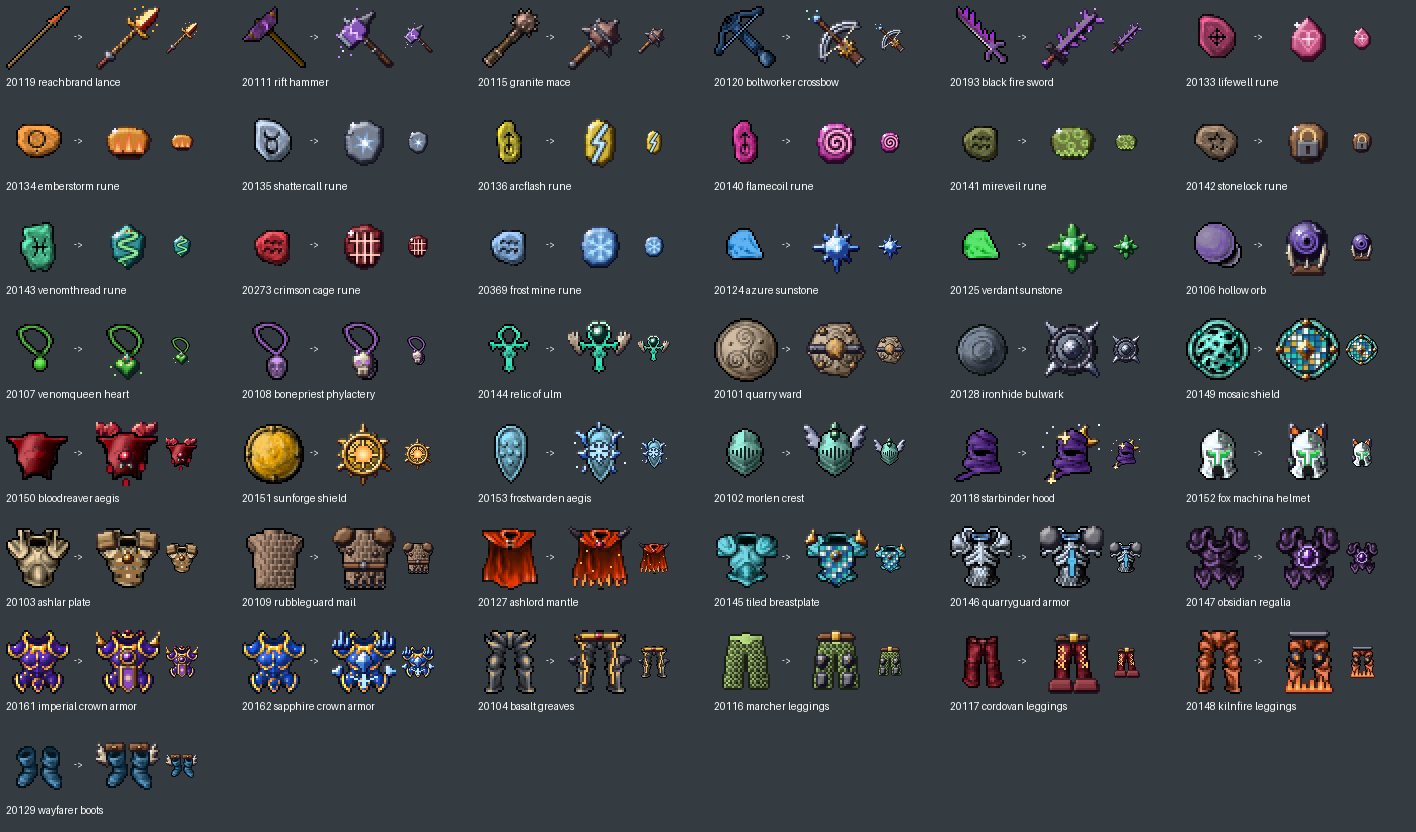
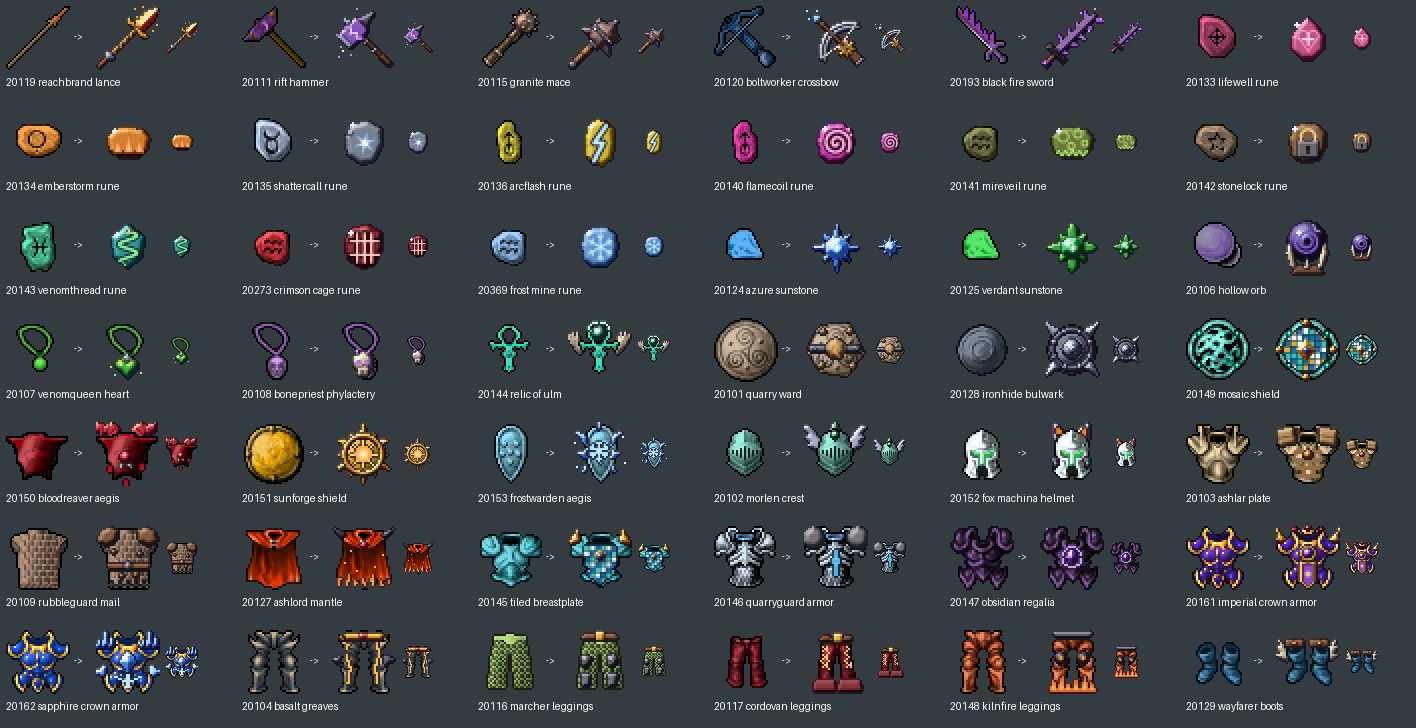
Starbinder hood (20118): vuelve al dibujo anterior
Pedido de Gonzalo: dejarlo como estaba. Restaura el sprite 11711 (el mismo que
genera recolor_zagan_items.py) y lo saca de redesign_items.py. Quedan 42
rediseñados.

diff --git a/scripts/client-rme/redesign_items.py b/scripts/client-rme/redesign_items.py
@@ -2,8 +2,8 @@
 """Rediseño de los ítems que eran un recolor de un ítem vanilla (24 nov 2026).
 
 Gonzalo: "hay muchos items que solo les cambiaste el color, y quedaron cambios mínimos como la nueva dragon
-lance". Este script reemplaza el sprite de 43 de esos 44 ítems (el aurora shield 20165 volvió a su dibujo por pedido de
-Gonzalo) por uno con forma propia. Dos maneras:
+lance". Este script reemplaza el sprite de 42 de esos 44 ítems (el aurora shield 20165 y el starbinder hood 20118
+volvieron a su dibujo por pedido de Gonzalo) por uno con forma propia. Dos maneras:
 
 - Desde cero con el motor de draw_zagan_items.py (piezas a 4x con volumen, luz arriba-izquierda, contorno):
   armas, runas, gemas, orbe y amuletos.
@@ -752,21 +752,6 @@ def morlen_crest():
     return h.render()
 
 
-def starbinder_hood():
-    h = Hybrid(20118)
-    b = h.back
-    moon = disc(24.8, 6.6, 5.0) & ~disc(27.4, 4.8, 4.4)
-    b.add(moon, Z.GOLD, bevel=1.2)
-    f = h.front
-    f.glow(star(12.4, 7.8, 3.8, 1.0, n=4), (255, 255, 240), (255, 210, 110))
-    f.add(capsule(7.4, 24.0, 6.0, 28.6, 0.35), Z.GOLD, bevel=0.3)
-    f.glow(star(5.8, 29.4, 2.4, 0.8, n=4), (255, 240, 170))
-    for x, y in ((3, 5), (6, 2), (19, 1), (29, 13), (1, 12)):
-        f.dot(x, y, (230, 210, 255))
-    f.dot(29, 1, (255, 255, 255))
-    return h.render()
-
-
 def fox_machina_helmet():
     h = Hybrid(20152)
     b = h.back
@@ -1022,7 +1007,6 @@ ITEMS: dict[int, tuple[str, object, str]] = {
     20151: ("sunforge_shield", sunforge_shield, "Sol: disco más chico con doce rayos dorados alrededor y núcleo encendido."),
     20153: ("frostwarden_aegis", frostwarden_aegis, "Esquirlas de hielo a los lados y arriba, copo de nieve brillante."),
     20102: ("morlen_crest", morlen_crest, "Alas plateadas a los costados, cresta de jade y gema en la frente."),
-    20118: ("starbinder_hood", starbinder_hood, "Luna creciente de oro, estrella en la frente, dije de estrella y destellos."),
     20152: ("fox_machina_helmet", fox_machina_helmet, "Orejas de zorro con interior naranja y respiraderos con luz verde."),
     20103: ("ashlar_plate", ashlar_plate, "Hombreras de bloque de arenisca, juntas de sillar en el pecho y gema ámbar."),
     20109: ("rubbleguard_mail", rubbleguard_mail, "Hombreras de roca, cinturón con piedra, piedras incrustadas y borde inferior en zigzag."),

diff --git a/docs/items-and-map/ITEMS_REDESIGN_2026_11_24.md b/docs/items-and-map/ITEMS_REDESIGN_2026_11_24.md
@@ -3,11 +3,11 @@
 Gonzalo: *"Hay muchos items que solo les cambiaste el color, y quedaron cambios mínimos como la nueva dragon
 lance. Modificalos y que se noten más los cambios."*
 
-44 ítems tenían exactamente la silueta y el sombreado de un ítem vanilla, solo con otro tono. Ahora 43
+44 ítems tenían exactamente la silueta y el sombreado de un ítem vanilla, solo con otro tono. Ahora 42
 tienen forma propia: puntas, alas, gemas, hombreras, llamas, grabados o un dibujo nuevo desde cero. Los ids no
 cambian (server id, client id, OTB, `.dat`): solo se reemplazan en el lugar los sprites del `Tibia.spr`.
 
-![Antes (recolor) y después, los 43](img/items-redesign/00_todos.png)
+![Antes (recolor) y después, los 42](img/items-redesign/00_todos.png)
 
 ![Reachbrand lance: original 7.6, recolor viejo y nueva](img/items-redesign/20119_reachbrand_lance.png)
 
@@ -24,8 +24,8 @@ Quedaron afuera a propósito (también los marca, pero no son ítems de inventar
 - Cadáveres, paredes, ventanas, barandas, piso, trofeos, candelabros, tapices, lava, árboles, regalos de nivel:
   decoración o terreno, no ítems de equipo.
 
-> **Aurora shield (20165):** también se rediseñó, pero Gonzalo pidió dejarlo como estaba. Volvió al dibujo
-> anterior (borde dorado y campo violeta, sprite 11741) y `redesign_items.py` ya no lo toca.
+> **Aurora shield (20165) y Starbinder hood (20118):** también se rediseñaron, pero Gonzalo pidió dejarlos
+> como estaban. Volvieron al dibujo anterior (aurora: borde dorado y campo violeta, sprite 11741; hood: mystic turban violeta, sprite 11711) y `redesign_items.py` ya no los toca.
 
 ## Lista (server id, nombre, base vanilla, qué cambió)
 
@@ -61,7 +61,6 @@ Todos tenían silueta 1.00 y brillo 0.82–1.00 contra la base antes del cambio.
 | 20151 | sunforge shield | phoenix shield | Sol: disco más chico con doce rayos y núcleo encendido |
 | 20153 | frostwarden aegis | battle shield | Esquirlas de hielo a los lados y arriba, copo de nieve |
 | 20102 | morlen crest | warrior helmet | Alas plateadas, cresta de jade, gema en la frente |
-| 20118 | starbinder hood | mystic turban | Luna creciente de oro, estrella en la frente, dije de estrella, destellos |
 | 20152 | fox machina helmet | steel helmet | Orejas de zorro, respiraderos con luz verde |
 | 20103 | ashlar plate | plate armor | Hombreras de bloque, juntas de sillar en el pecho, gema ámbar |
 | 20109 | rubbleguard mail | scale armor | Hombreras de roca, cinturón con piedra, piedras incrustadas, borde en zigzag |
@@ -93,7 +92,7 @@ python3.11 scripts/client-rme/redesign_items.py --apply devtools/rme/rme-client-
   planos sin contorno (`paint`) y recortes que cambian la silueta (`erase`, que repone el contorno).
 - Fuente del dibujo viejo: `docs/items-and-map/img/items-redesign/old/<sid>.png` (copia del cliente antes del
   cambio), así se puede repetir sin acumular. `base/` tiene el vanilla y `new/` el resultado.
-- `--apply` reemplaza en el lugar los sprites que ya tiene cada client id (los 44 sprites tienen un único
+- `--apply` reemplaza en el lugar los sprites que ya tiene cada client id (los 43 sprites tienen un único
   dueño; si no, aborta). No cambia el `.dat`, la cantidad de sprites (15736), el OTB ni ningún id.
 - También escribe los PNG que reinstala `add_custom_items.py` (`imperial_crown_armor`, `sapphire_crown_armor`,
   `black_fire_sword`, `crimson_cage_rune`, `frost_mine_rune`).
@@ -103,10 +102,10 @@ python3.11 scripts/client-rme/redesign_items.py --apply devtools/rme/rme-client-
 
 ## Verificación
 
-- `Tibia.dat` sin cambios (md5 `17855f84…`). En `Tibia.spr` cambiaron exactamente los 44 sprites esperados
-  (43 ítems; la black fire sword tiene 2 cuadros); los 15736 sprites decodifican; cada sprite escrito es
+- `Tibia.dat` sin cambios (md5 `17855f84…`). En `Tibia.spr` cambiaron exactamente los 43 sprites esperados
+  (42 ítems; la black fire sword tiene 2 cuadros); los 15736 sprites decodifican; cada sprite escrito es
   idéntico píxel a píxel al dibujo.
-- `find_recolor_items.py` después del cambio: ninguno de los 43 sale como recolor (todos con brillo < 0.80 o
+- `find_recolor_items.py` después del cambio: ninguno de los 42 sale como recolor (todos con brillo < 0.80 o
   silueta < 0.90 contra su base; las crown armors, que eran las más parecidas, quedaron en 0.91/0.69 y
   0.85/0.60). Las runas aparecen "parecidas" a ítems vanilla llamados *dirt*: son client ids sacrificados que
   hoy muestran otra runa custom (comparten forma de piedra entre ellas), no un recolor de una runa 7.6.

diff --git a/docs/items-and-map/ZAGAN_TEST_ITEMS.md b/docs/items-and-map/ZAGAN_TEST_ITEMS.md
@@ -31,7 +31,7 @@ Se revisaron los 66 ítems desde `20100` comparando nombre, tipo, stats y dibujo
 
 ![Los 38 dibujos nuevos: el ítem base (chico) y el resultado](img/zagan-items-recolor.png)
 
-> **24 nov 2026:** los 38 recolores (y las crown armors, la black fire sword y dos runas)
+> **24 nov 2026:** 37 de los 38 recolores (todos menos el starbinder hood 20118, que quedó igual; y las crown armors, la black fire sword y dos runas)
 > se rediseñaron con forma propia: ver [ITEMS_REDESIGN_2026_11_24.md](ITEMS_REDESIGN_2026_11_24.md).
 > `recolor_zagan_items.py --apply` ya escribe el dibujo nuevo.
 
